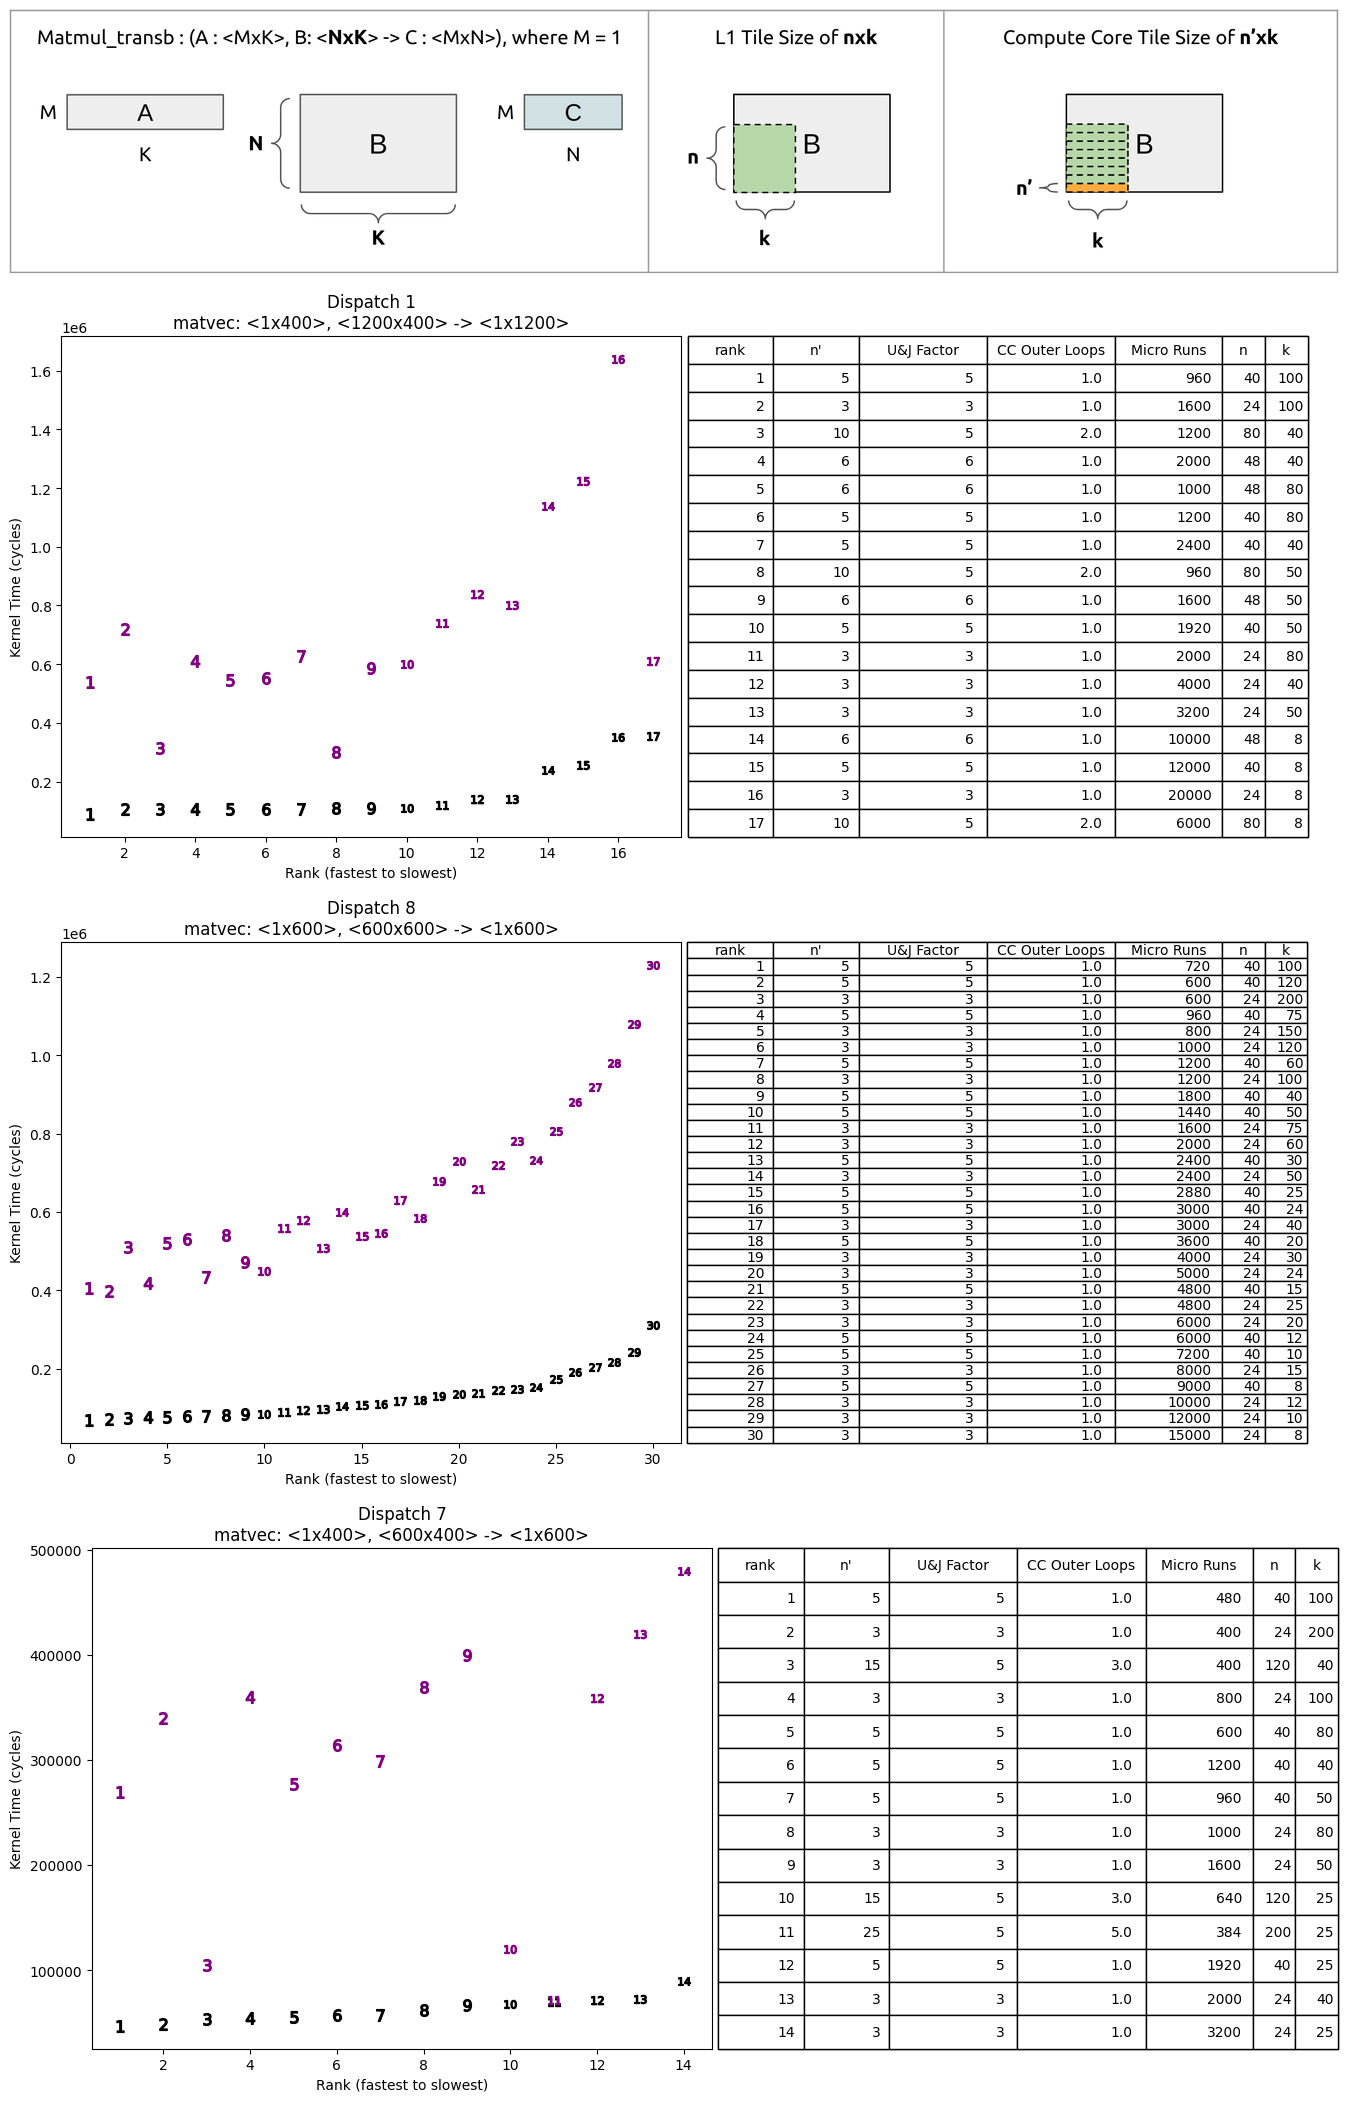
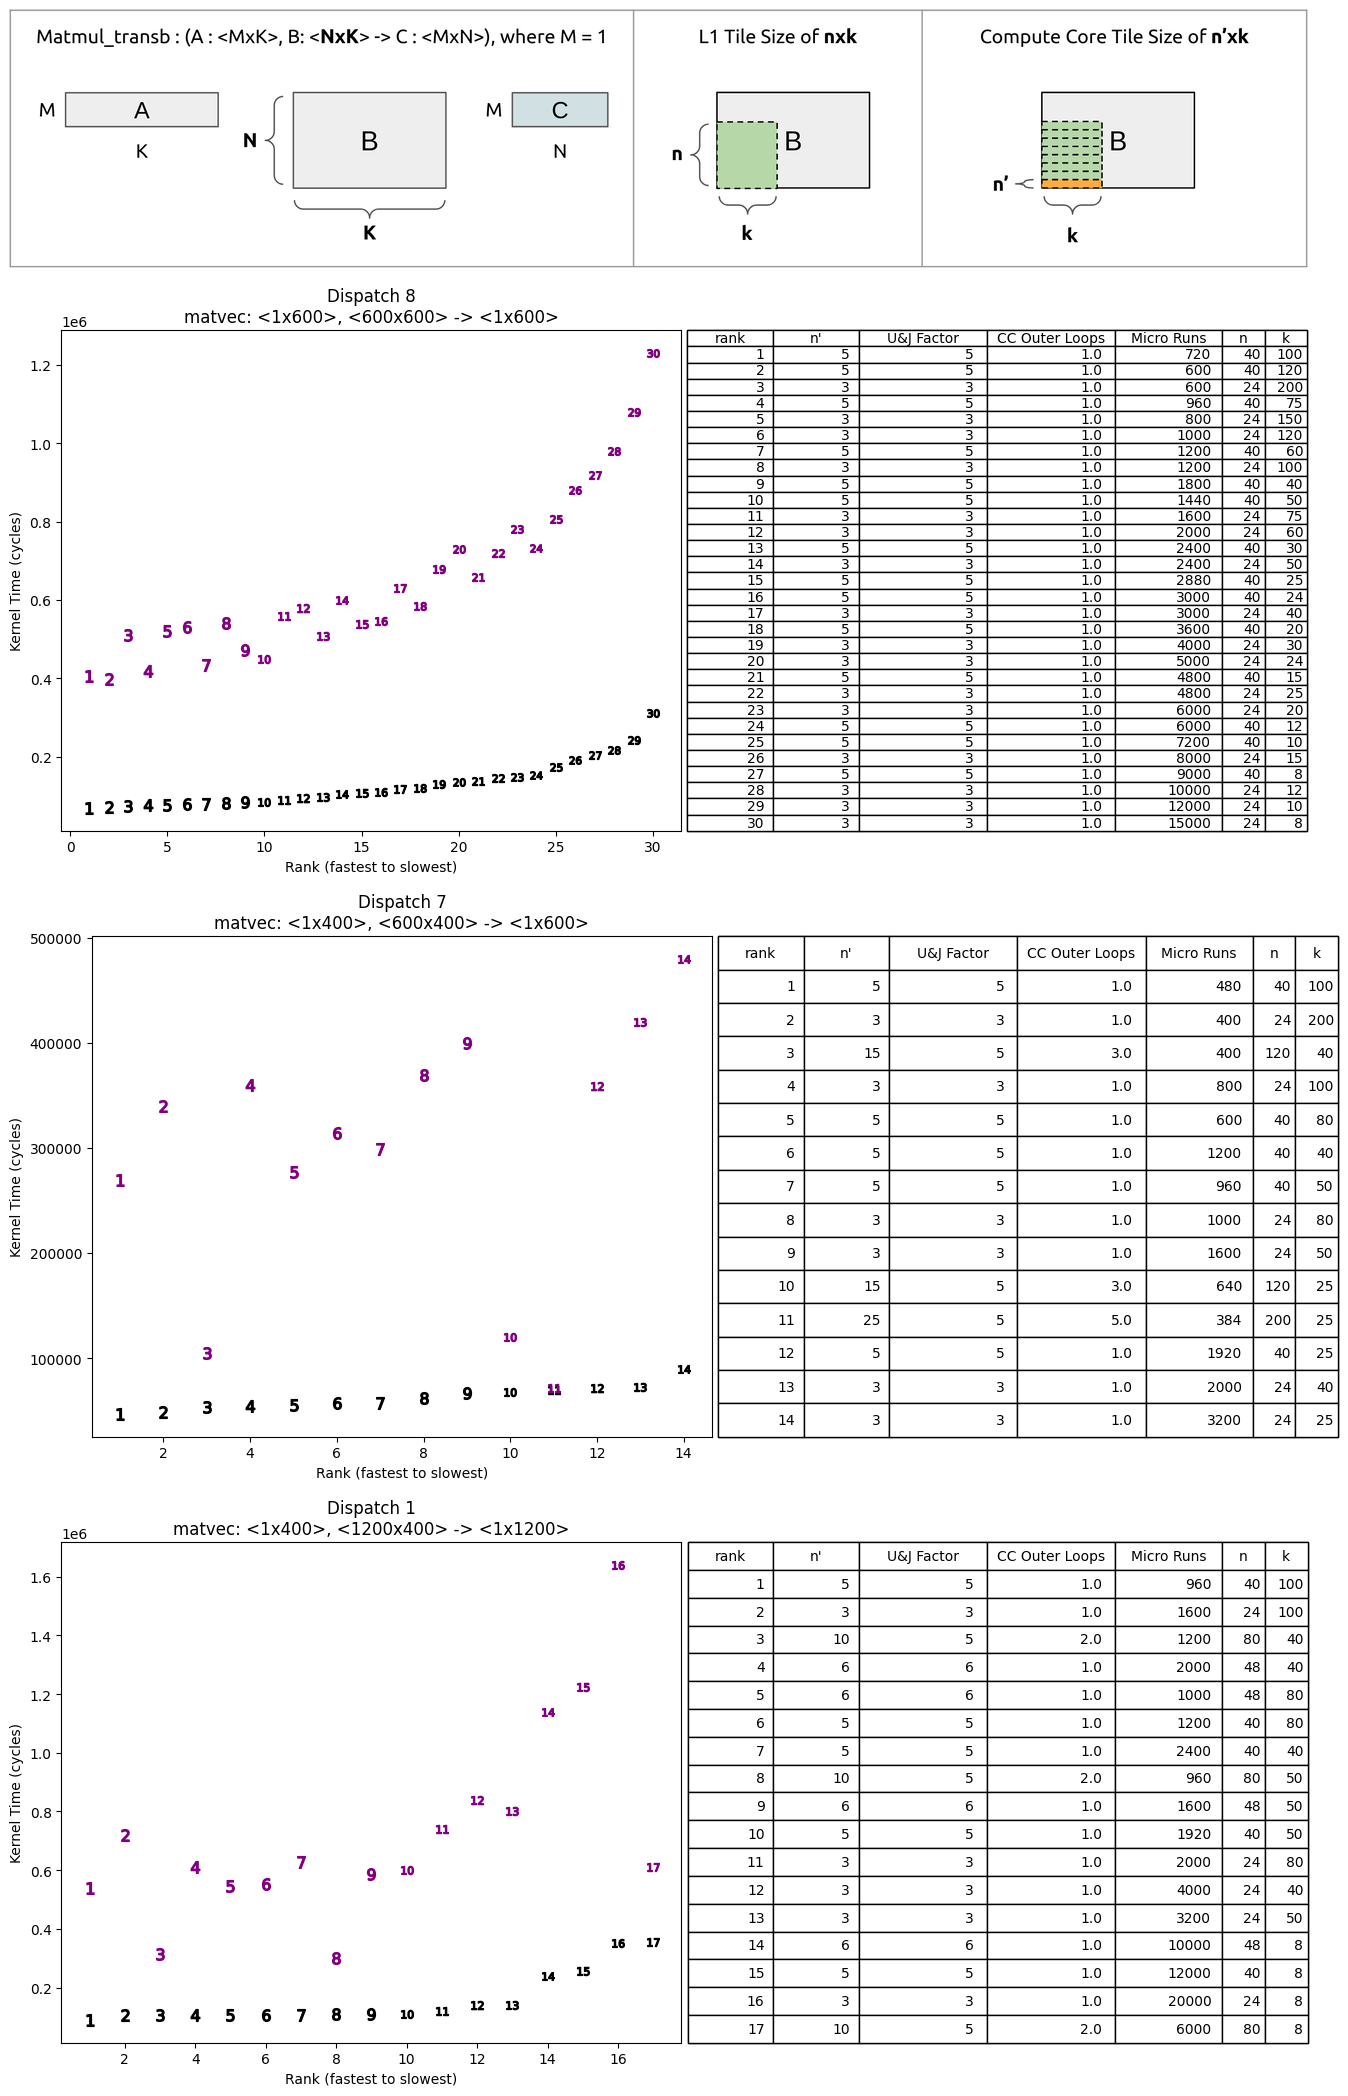
broken refactoring

diff --git a/graphing/svm-test.py b/graphing/svm-test.py
@@ -190,22 +190,87 @@ def learnCostTest(dfs, dispNo, dispTitle):
     gs.append(c)
     gs.append(d)
     return gs
+
+
+def learnOverheadTest(dfs, dispNo, dispTitle):
+    ranked = rankBy(dfs, (dispNo, 1), "Kernel Time", True)
+    ranked["rankAsStr"] = ranked.apply(lambda y: f'{y["rank"]}', axis=1)
+    ranked["Hardware Loop Time Estimate"] = ranked.apply(lambda y: y["Kernel Time Estimate"]/y["Microkernel Count"], axis=1)
+    feature_names = ["Hardware Loop Time Estimate","UnrollAndJam Outer Loops","Microkernel Count"]
+    #feature_names = ["Kernel Time Estimate","UnrollAndJam Outer Loops"]
+    target_name = "Kernel Time"
+    train = ranked[feature_names]
+  
+    #print(train.shape)
+    X = np.array(train)
+    y = np.array(ranked[target_name])
+    # print(f'size of x is {X.size} and shape is {X.shape} and type is {type(X)}')
+    # print(f'size of y is {y.size} and shape is {y.shape} and type is {type(y)}')
+   
+    # Build the model
+    svm = SVR(kernel="linear", gamma=0.5, C=1.0)
+    # Train the model
+    svm.fit(X, y)
+
+    print(svm._decision_function)
+    print(svm.coef_)
+
+    for (row,answer) in zip(X,ranked[target_name]):
+       # print(f'{row} {answer}')
+        if svm.predict([row]) != answer:
+           print(f'prediction for {row[0]}x{row[1]} is {svm.predict([row])} but it is actually {answer}')
+
+    ranked["Predicted Kernel Time"] = ranked.apply(lambda y: svm.predict([y[feature_names]])[0], axis=1)
+    ranked = ranked.sort_values("Predicted Kernel Time", ascending=True)
+    b = createTableGraph(ranked,dispNo,dispTitle)
     
+    # now let's use model trained on dispatch 8 to predict dispatch 7 and dispatch 1!!
+    dispatch_7 = rankBy(dfs, (7, 1), "Kernel Time", True)
+    dispatch_7["rankAsStr"] = dispatch_7.apply(lambda y: f'{y["rank"]}', axis=1)
+    dispatch_7["Hardware Loop Time Estimate"] = ranked.apply(lambda y: y["Kernel Time Estimate"]/y["Microkernel Count"], axis=1)
+    dispatch_7["Predicted Kernel Time"] = dispatch_7.apply(lambda y: svm.predict([y[feature_names]])[0], axis=1)
+    c = createTableGraph(dispatch_7,7,"Dispatch 7\nmatvec: <1x400>, <600x400> -> <1x600>")
+   
+    dispatch_1 = rankBy(dfs, (1, 1), "Kernel Time", True)
+    dispatch_1["rankAsStr"] = dispatch_1.apply(lambda y: f'{y["rank"]}', axis=1)
+    dispatch_1["Hardware Loop Time Estimate"] = ranked.apply(lambda y: y["Kernel Time Estimate"]/y["Microkernel Count"], axis=1)
+    dispatch_1["Predicted Kernel Time"] = dispatch_1.apply(lambda y: svm.predict([y[feature_names]])[0], axis=1)
+    d = createTableGraph(dispatch_1,1,"Dispatch 1\nmatvec: <1x400>, <1200x400> -> <1x1200>")
+    
+    gs = []
+    gs.append(b)
+    gs.append(c)
+    gs.append(d)
+    return gs
 
-def main():
-    titles = [
-        "Dispatch 1\nmatvec: <1x400>, <1200x400> -> <1x1200>",
-        "Dispatch 8\nmatvec: <1x600>, <600x600> -> <1x600>",
-        "Dispatch 7\nmatvec: <1x400>, <600x400> -> <1x600>",
-    ]
-
-    dfs = shortcutToData("../estimated_cycles_out_2")
-
-    #shapeTest(dfs, 8, titles[1])
-    gs = learnCostTest(dfs, 8, titles[1])
-    #print(gs)
-    # for g in gs:
-    #     graphEmAll((1, 1), [g])
+def svm_find_overhead_constant(titles,dfs):
+    gs = learnOverheadTest(dfs, 8, titles[1])
+    for g in gs:
+            graphEmAll((1, 1), [g])
+            top = Image.open('context2.png') # hard coded
+            bot = Image.open(f'{g.imagePath}.png')    
+            resized = top.copy()
+            resized.thumbnail(bot.size, Image.Resampling.LANCZOS)
+            resized.save("resized.png")
+            top = Image.open('resized.png')
+            canvas = Image.new('RGBA', (bot.size[0], bot.size[1]+top.size[1]), (0, 0, 0, 0))
+            canvas.paste(resized, (0, 0), resized)
+            canvas.paste(bot, (0, top.size[1]), bot)
+            canvas.save('Image.png')
+    # put all the graphs in one image
+    top = Image.open('resized.png')
+    g0 = Image.open(f'{gs[0].imagePath}.png')  
+    g1 = Image.open(f'{gs[1].imagePath}.png')  
+    g2 = Image.open(f'{gs[2].imagePath}.png')  
+    canvas = Image.new('RGBA', (g2.size[0], top.size[1]+g0.size[1]+g1.size[1]+g2.size[1]), (0, 0, 0, 0))
+    canvas.paste(top, (0, 0), top)
+    canvas.paste(g0, (0, top.size[1]), g0)
+    canvas.paste(g1, (0, top.size[1]+g0.size[1]), g1)
+    canvas.paste(g2, (0, top.size[1]+g0.size[1]+g1.size[1]), g2)
+    canvas.save('3-dispatches-svm-overhead-constant.png')
+    
+def svm_disp_8_prediction_graphs(titles,dfs):
+    gs = learnCostTest(dfs, 8, titles[0])
     for g in gs:
             graphEmAll((1, 1), [g])
             top = Image.open('context2.png') # hard coded
@@ -229,6 +294,19 @@ def main():
     canvas.paste(g1, (0, top.size[1]+g0.size[1]), g1)
     canvas.paste(g2, (0, top.size[1]+g0.size[1]+g1.size[1]), g2)
     canvas.save('3-dispatches-svm.png')
+
+
+def main():
+    titles = [
+        "Dispatch 8\nmatvec: <1x600>, <600x600> -> <1x600>",
+        "Dispatch 7\nmatvec: <1x400>, <600x400> -> <1x600>",
+        "Dispatch 1\nmatvec: <1x400>, <1200x400> -> <1x1200>",
+    ]
+
+    dfs = shortcutToData("../estimated_cycles_no_overhead")
+
+    #svm_disp_8_prediction_graphs(titles,dfs)
+    svm_find_overhead_constant(titles,dfs)
     
 
 if __name__ == "__main__":

diff --git a/graphing/graph_utils.py b/graphing/graph_utils.py
@@ -12,6 +12,7 @@ from typing import Callable
 from typing import TypeVar, Generic
 import matplotlib.lines as mlines
 import matplotlib.patches as mpatches
+import re
 
 T = TypeVar("T")
 
@@ -160,11 +161,35 @@ def graphEmAll(shape: tuple, graphs):
 
 
     # label: Callable[[T], str] = lambda y="no label": "_no label"
+def deriveMoreData(dfs, dispatchNos, caseNos):
+    def extractMNKFromName(name):
+        mnk=re.split('x',re.split('_',name)[-2])
+        return {"M":int(mnk[0]),"N":int(mnk[1]),"K":(mnk[2])}
+    for d in dispatchNos:
+        for c in caseNos:
+            ranked = rankBy(dfs, (d, c), "Kernel Time", True)
+            name = ranked[["Kernel Name"]].iloc(1)["Kernel Name"]
+            print(f'name is {name}')
+            mnk=extractMNKFromName(name)
+            flops = 2*mnk["m"]*mnk["n"]*mnk["k"]
+            ranked["rankAsStr"] = ranked.apply(lambda y: f'{y["rank"]}', axis=1)
+            ranked["Hardware Loop Time Estimate"] = ranked.apply(lambda y: y["Kernel Time Estimate"]/y["Microkernel Count"], axis=1)
+            ranked["Config Overhead"] = ranked.apply(lambda y: y["UnrollAndJam Outer Loops"] * y["Microkernel Count"], axis=1)
+            ranked["FLOP per Cycle"] = ranked.apply(lambda y: flops/y['Kernel Time'])
+            dfs[(d, c)] = ranked
+    return dfs
 
+def loadDFsDispatchCaseNo(dir, dispatchNos, caseNos):
+    path = lambda x, y: f"{dir}/dispatch_{x}_case{y}_everything.csv"
+    dfs = {}
+    for d in dispatchNos:
+        for c in caseNos:
+            dfs[(d, c)] = pd.read_csv(path(d, c))
+    return dfs
 
 def shortcutToData(dir="./toGraph"):
     path = lambda x, y: f"{dir}/dispatch_{x}_case{y}_everything.csv"
-    dispatches = [1, 7, 8]
+    dispatches = [8,7,1]
     cases = [1, 2]
     dfs = {}
     for d in dispatches:

diff --git a/graphing/graph_w_estimated_timing.py b/graphing/graph_w_estimated_timing.py
@@ -181,17 +181,17 @@ def lookAtLoads(dfs, dispNo, dispTitle):
 
 def main():
     titles = [
-        "Dispatch 1\nmatvec: <1x400>, <1200x400> -> <1x1200>",
         "Dispatch 8\nmatvec: <1x600>, <600x600> -> <1x600>",
         "Dispatch 7\nmatvec: <1x400>, <600x400> -> <1x600>",
+        "Dispatch 1\nmatvec: <1x400>, <1200x400> -> <1x1200>",
     ]
     graphs = []
     # dfs = shortcutToData("../estimated_cycles_out")
     # dfs = shortcutToData("../estimated_cycles_out_2")
-    dfs = shortcutToData("../estimated_cycles_overhead")
+    dfs = shortcutToData("../estimated_cycles_no_overhead")
     #dfs = shortcutToData("../estimated_cycles_no_overhead")
 
-    for dispNo, dispTitle in zip([1, 8, 7], titles):     
+    for dispNo, dispTitle in zip([8, 7, 1], titles):     
         unrolled = unrollVsUnrollTable(dfs, dispNo, dispTitle)
         #unrolled = lookAtLoads(dfs, dispNo, dispTitle)
         graphs.append(unrolled)
@@ -218,12 +218,13 @@ def main():
     g0 = Image.open(f'{graphs[0].imagePath}.png')  
     g1 = Image.open(f'{graphs[1].imagePath}.png')  
     g2 = Image.open(f'{graphs[2].imagePath}.png')  
-    canvas = Image.new('RGBA', (g2.size[0], top.size[1]+g0.size[1]+g1.size[1]+g2.size[1]), (0, 0, 0, 0))
+    canvas = Image.new('RGBA', (g1.size[0], top.size[1]+g0.size[1]+g1.size[1]+g2.size[1]), (0, 0, 0, 0))
+    #canvas = Image.new('RGBA', (g0.size[0], top.size[1]+g0.size[1]+g1.size[1]+g2.size[1]), (0, 0, 0, 0))
     canvas.paste(top, (0, 0), top)
     canvas.paste(g0, (0, top.size[1]), g0)
     canvas.paste(g1, (0, top.size[1]+g0.size[1]), g1)
     canvas.paste(g2, (0, top.size[1]+g0.size[1]+g1.size[1]), g2)
-    canvas.save('3-dispatches.png')
+    canvas.save('3-dispatches-no-overhead.png')
 
   
 

diff --git a/graphing/graphing-refactored.py b/graphing/graphing-refactored.py
@@ -1,0 +1,45 @@
+from mpl_toolkits.mplot3d.axes3d import Axes3D
+from mpl_toolkits.mplot3d import proj3d
+import sys
+import pandas as pd
+from graph_utils import graphEmAll, loadDFsDispatchCaseNo, deriveMoreData,rankBy, Graph2D, Keys2D, CustomMarker, generalGraph
+import matplotlib as mpl
+import matplotlib.pyplot as plt
+from itertools import product, islice
+from PIL import Image
+
+# example run: python graphing-refactored.py "/home/hoppip/myrtle/estimated_cycles_no_overhead"
+
+def main():
+    args = sys.argv[1:]
+    if len(args) != 1:
+      print("USAGE: python3 graphing-refactored.py <tileData.csv>")
+      print("\twhere <tileData.csv>  contains static characteristics, \n\testimated time based on microkernels, and actual time")
+      exit(1)
+    print("HOLA")
+    caseNos = [1] # We only graph case 1; no padding anywhere.
+    dispatchOrder = [8,7,1] # All dispatches will be graphed in the order 8, 7, 1.
+    titles = {
+        8:"Dispatch 8\nmatvec: <1x600>, <600x600> -> <1x600>",
+        7:"Dispatch 7\nmatvec: <1x400>, <600x400> -> <1x600>",
+        1:"Dispatch 1\nmatvec: <1x400>, <1200x400> -> <1x1200>",
+    }
+    print(f"Reading data from {args[0]}...")
+    # load dispatch data
+    dfs = loadDFsDispatchCaseNo(args[0], dispatchOrder, caseNos)
+    # derive more data about each dispatch
+    #print(dfs[(1,1)]["Kernel Name"])
+    deriveMoreData(dfs,dispatchOrder,caseNos)
+    # Quidditch Time (flops and not flops) vs Attributes
+
+    # Predicted Quidditch time vs Actual Quidditch Time
+    
+    
+    
+    
+    print("HASTA LUEGO")
+  
+
+
+if __name__ == "__main__":
+    main()

diff --git a/tile_sizes_estimate_cycles.py b/tile_sizes_estimate_cycles.py
@@ -34,7 +34,7 @@ class Myrtle:
           # so select function that estimates execution of microkernel
           # with row dimension 10 / 2 = 5, and multiply that by outer loops
           # TODO: ALSO, ADD A CONSTANT TO ACCOUNT FOR OVERHEAD OF SETTING UP STREAMING REGISTERS
-       return self.timeEstimateFuncs[row_dim/outerLoopIters](col_dim)*microCount + outerLoopIters*100
+       return self.timeEstimateFuncs[row_dim/outerLoopIters](col_dim)*microCount #+ outerLoopIters*100
 
 
 
